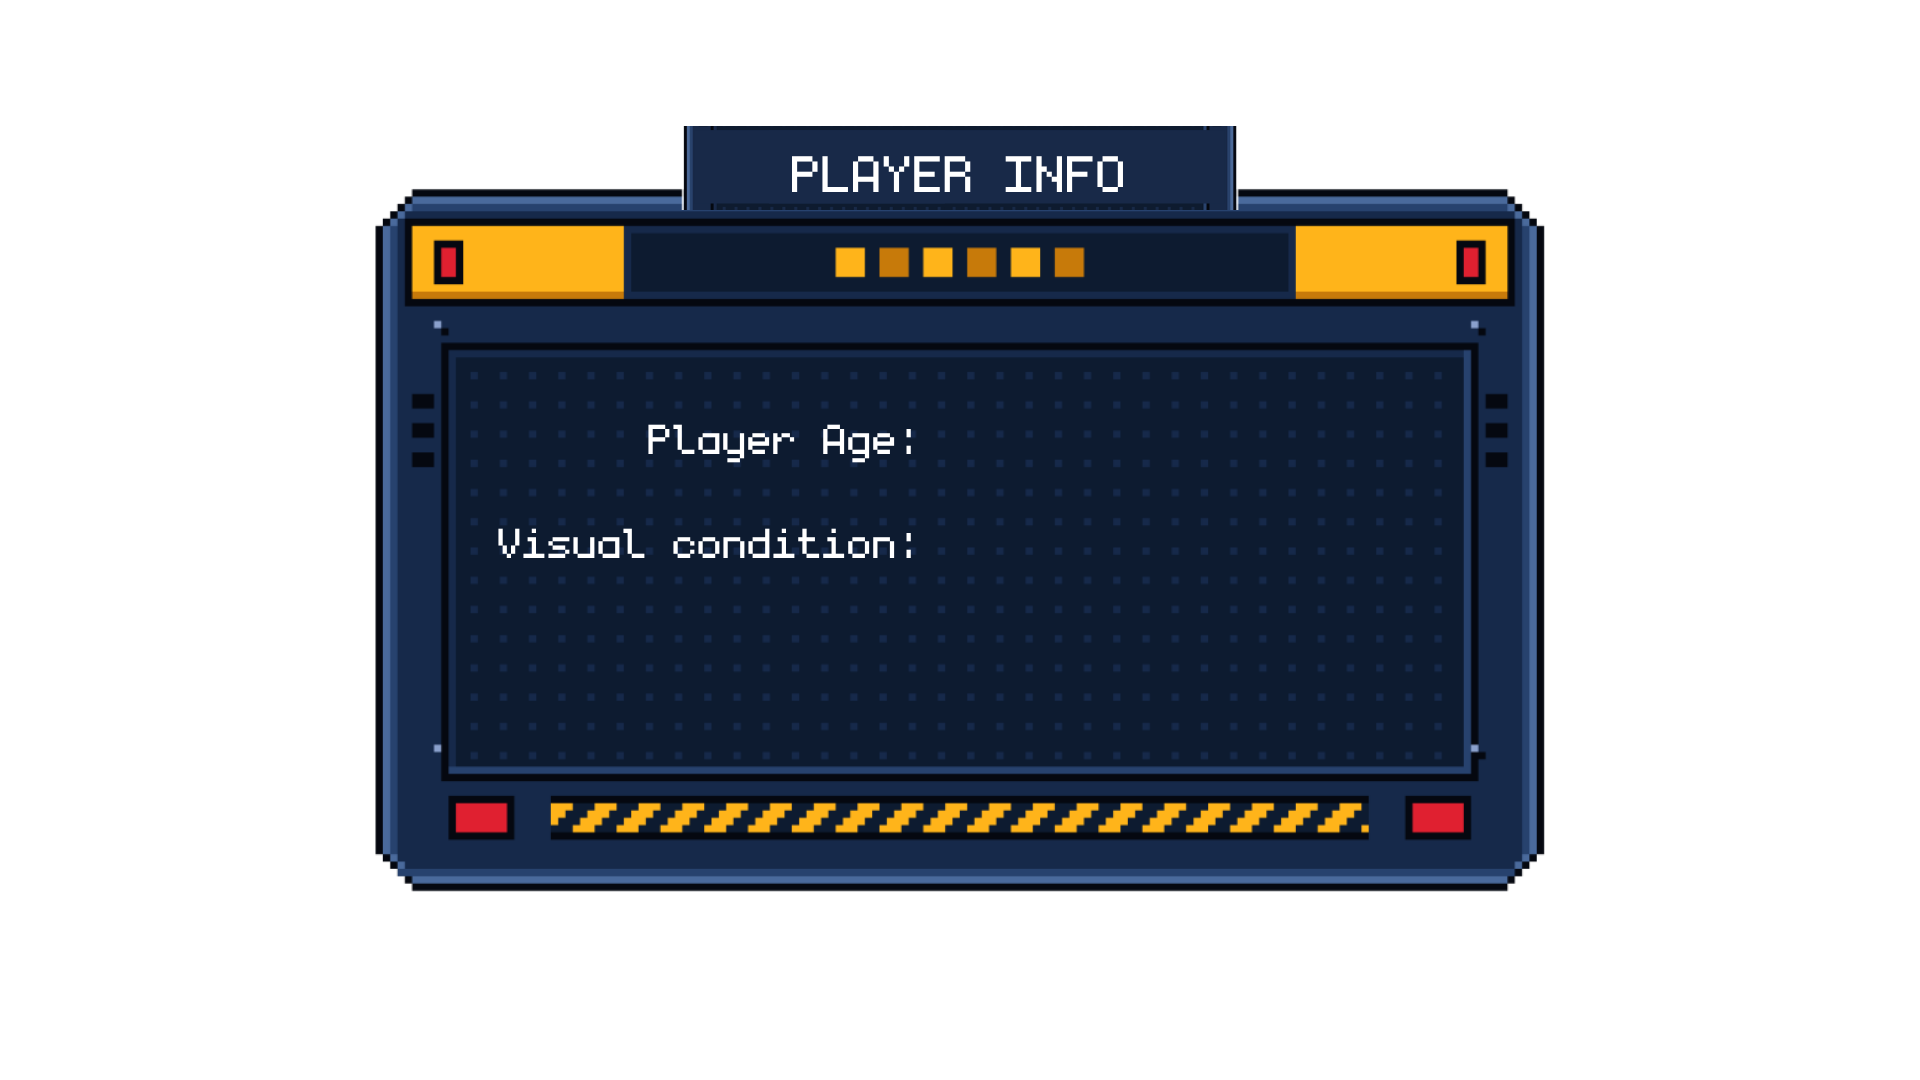
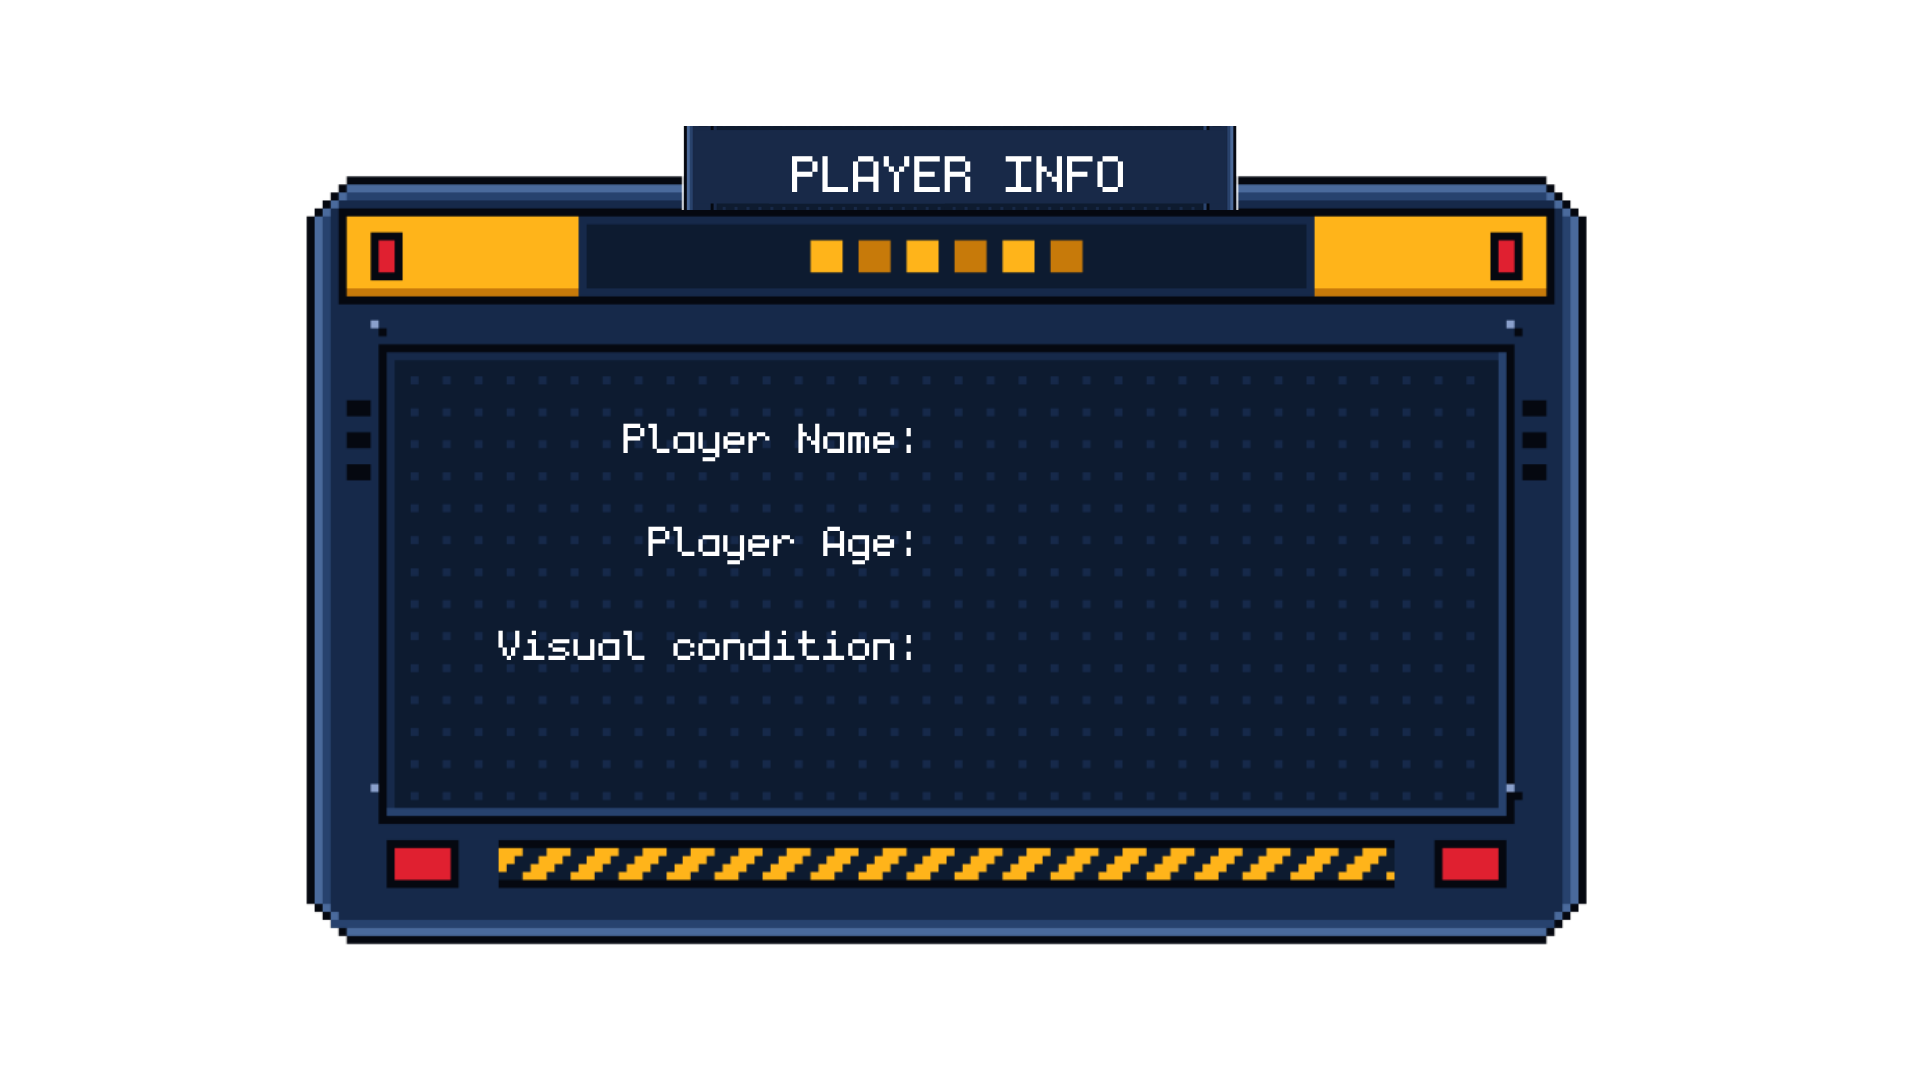
commit

Changed region(s): [[0.1562, 0.1528, 0.8438, 0.8861], [0.3125, 0.3667, 0.4688, 0.4278]]

diff --git a/Assets/Scripts/PlayerInfoManager.cs b/Assets/Scripts/PlayerInfoManager.cs
@@ -8,6 +8,7 @@ public class PlayerInfoManager : MonoBehaviour
 {
     [Header("UI References")]
     [SerializeField] GameObject playerInfoPanel;
+    [SerializeField] TMP_InputField nameInput;
     [SerializeField] TMP_InputField ageInput;
     [SerializeField] TMP_Dropdown conditionDropdown;
 
@@ -17,6 +18,9 @@ public class PlayerInfoManager : MonoBehaviour
     {
         filePath = Path.Combine(Application.dataPath,"PlayerDetails.csv");
 
+        //for debugging
+        PlayerPrefs.DeleteKey("PlayerInfoCompleted");
+
         bool completed = PlayerPrefs.GetInt("PlayerInfoCompleted", 0) == 1;
 
         playerInfoPanel.SetActive(!completed);
@@ -24,6 +28,14 @@ public class PlayerInfoManager : MonoBehaviour
 
     public void SavePlayerDetails()
     {
+        string playerName = nameInput.text.Trim();
+
+        if (string.IsNullOrEmpty(playerName))
+        {
+            Debug.Log("Please enter a valid name.");
+            return;
+        }
+
         if (!int.TryParse(ageInput.text, out int age) || age <= 0)
         {
             Debug.Log("Please enter a valid age.");
@@ -36,10 +48,12 @@ public class PlayerInfoManager : MonoBehaviour
 
         if (!File.Exists(filePath))
         {
-            File.WriteAllText(filePath, "Age,VisualCondition\n");
+            File.WriteAllText(filePath, "Name,Age,VisualCondition\n");
         }
 
-        string row = age + "," + EscapeCSV(condition) + "\n";
+        PlayerPrefs.SetString("PlayerName", playerName);
+
+        string row = EscapeCSV(playerName) + "," + age + "," + EscapeCSV(condition) + "\n";
 
         File.AppendAllText(filePath, row, Encoding.UTF8);
 
